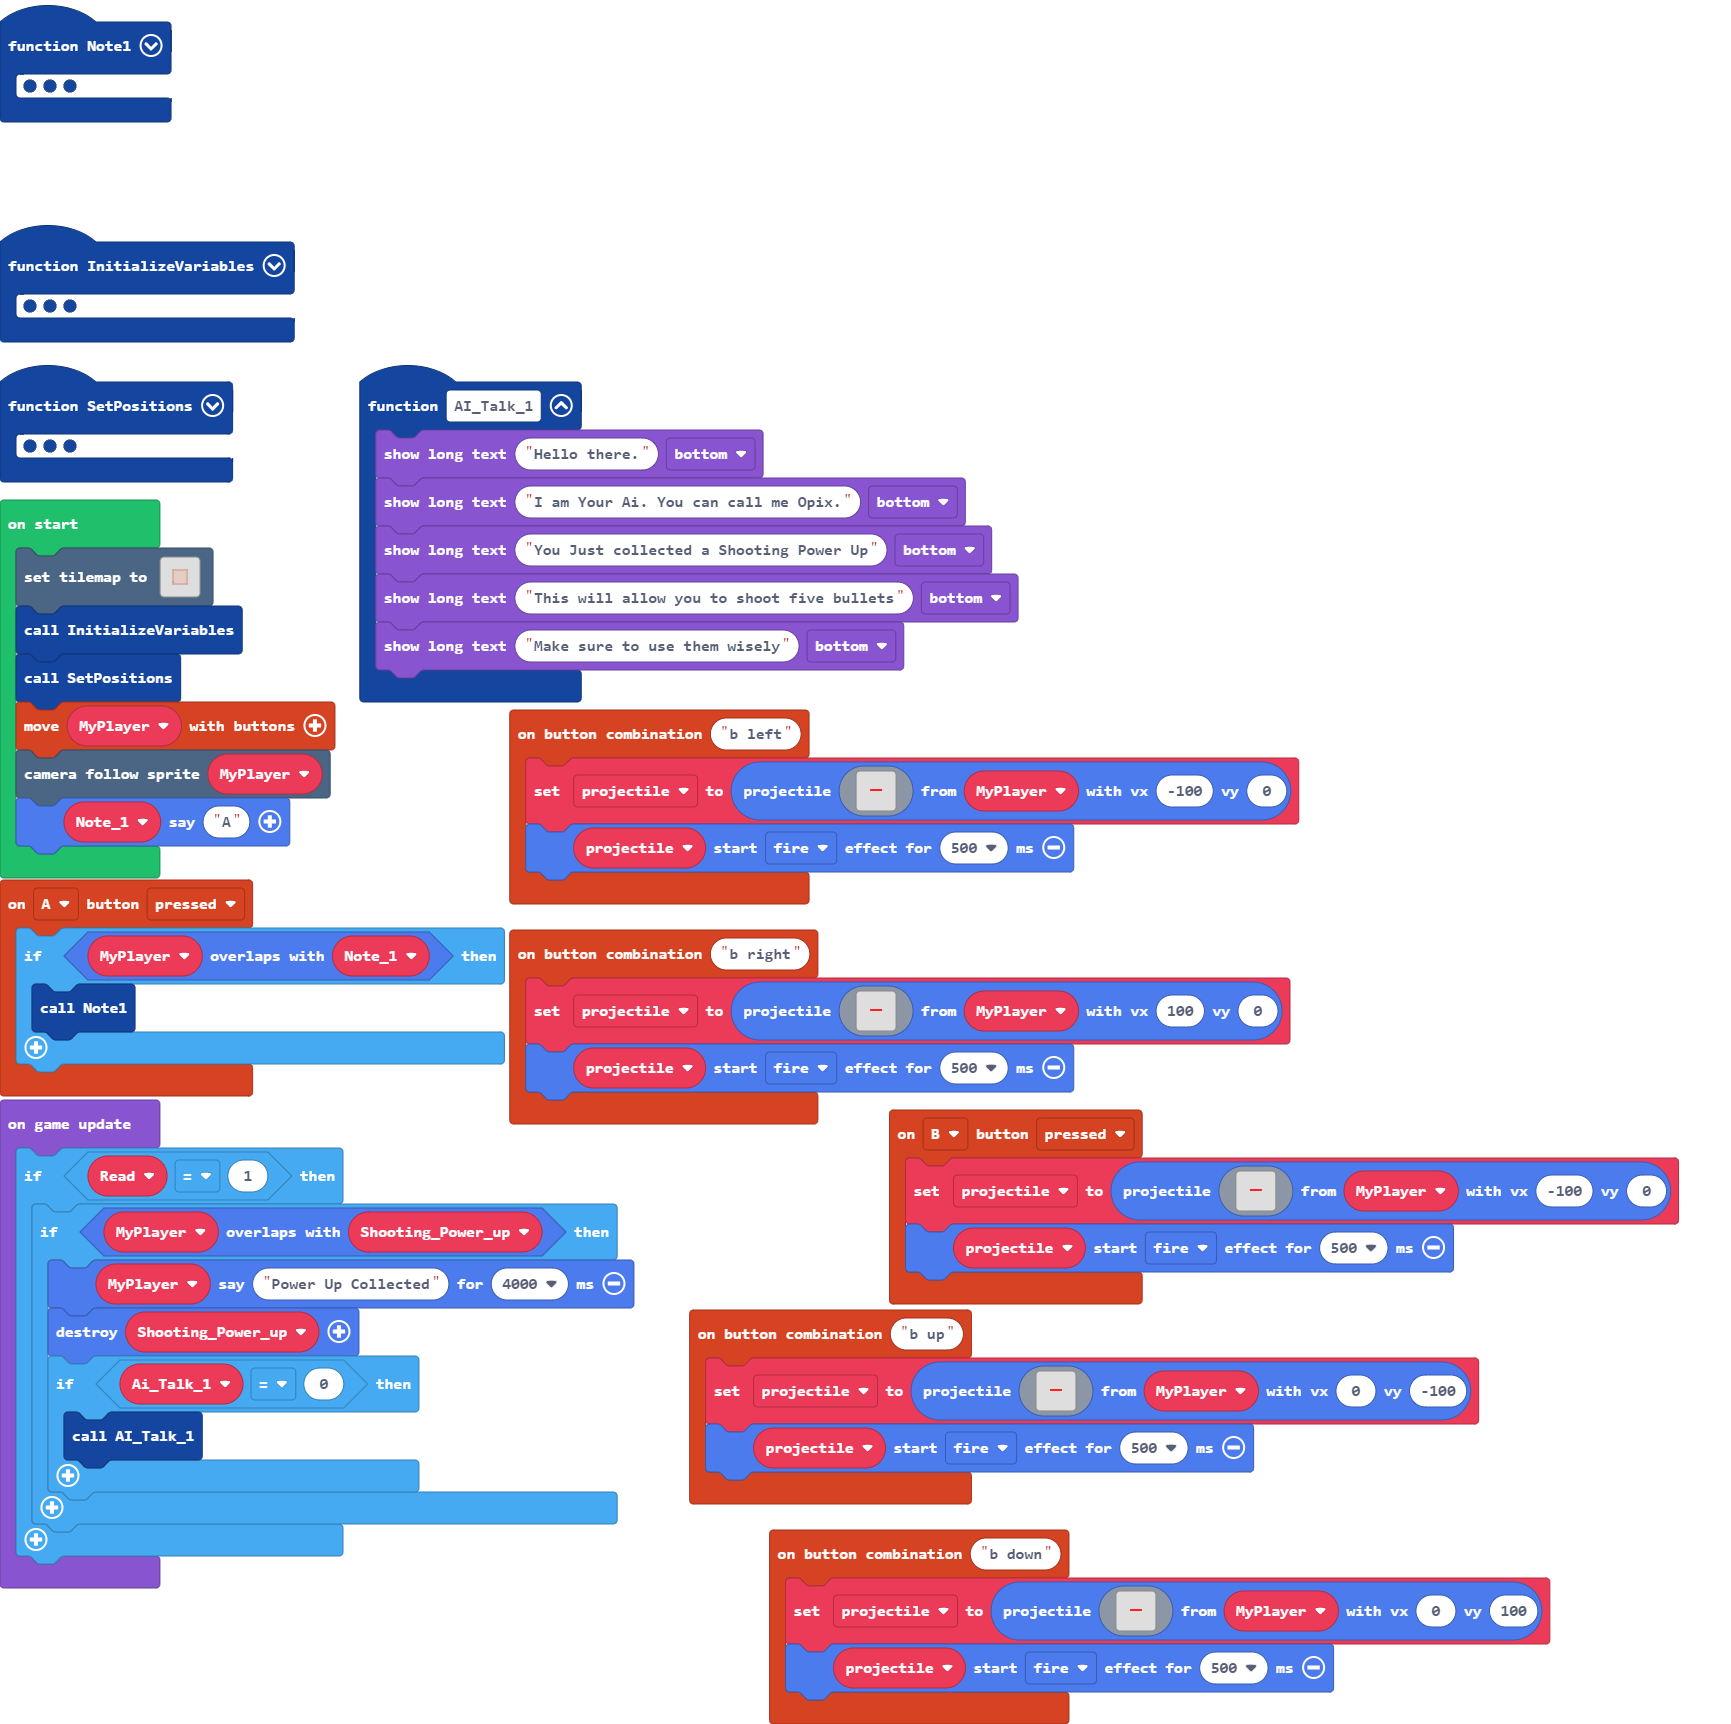
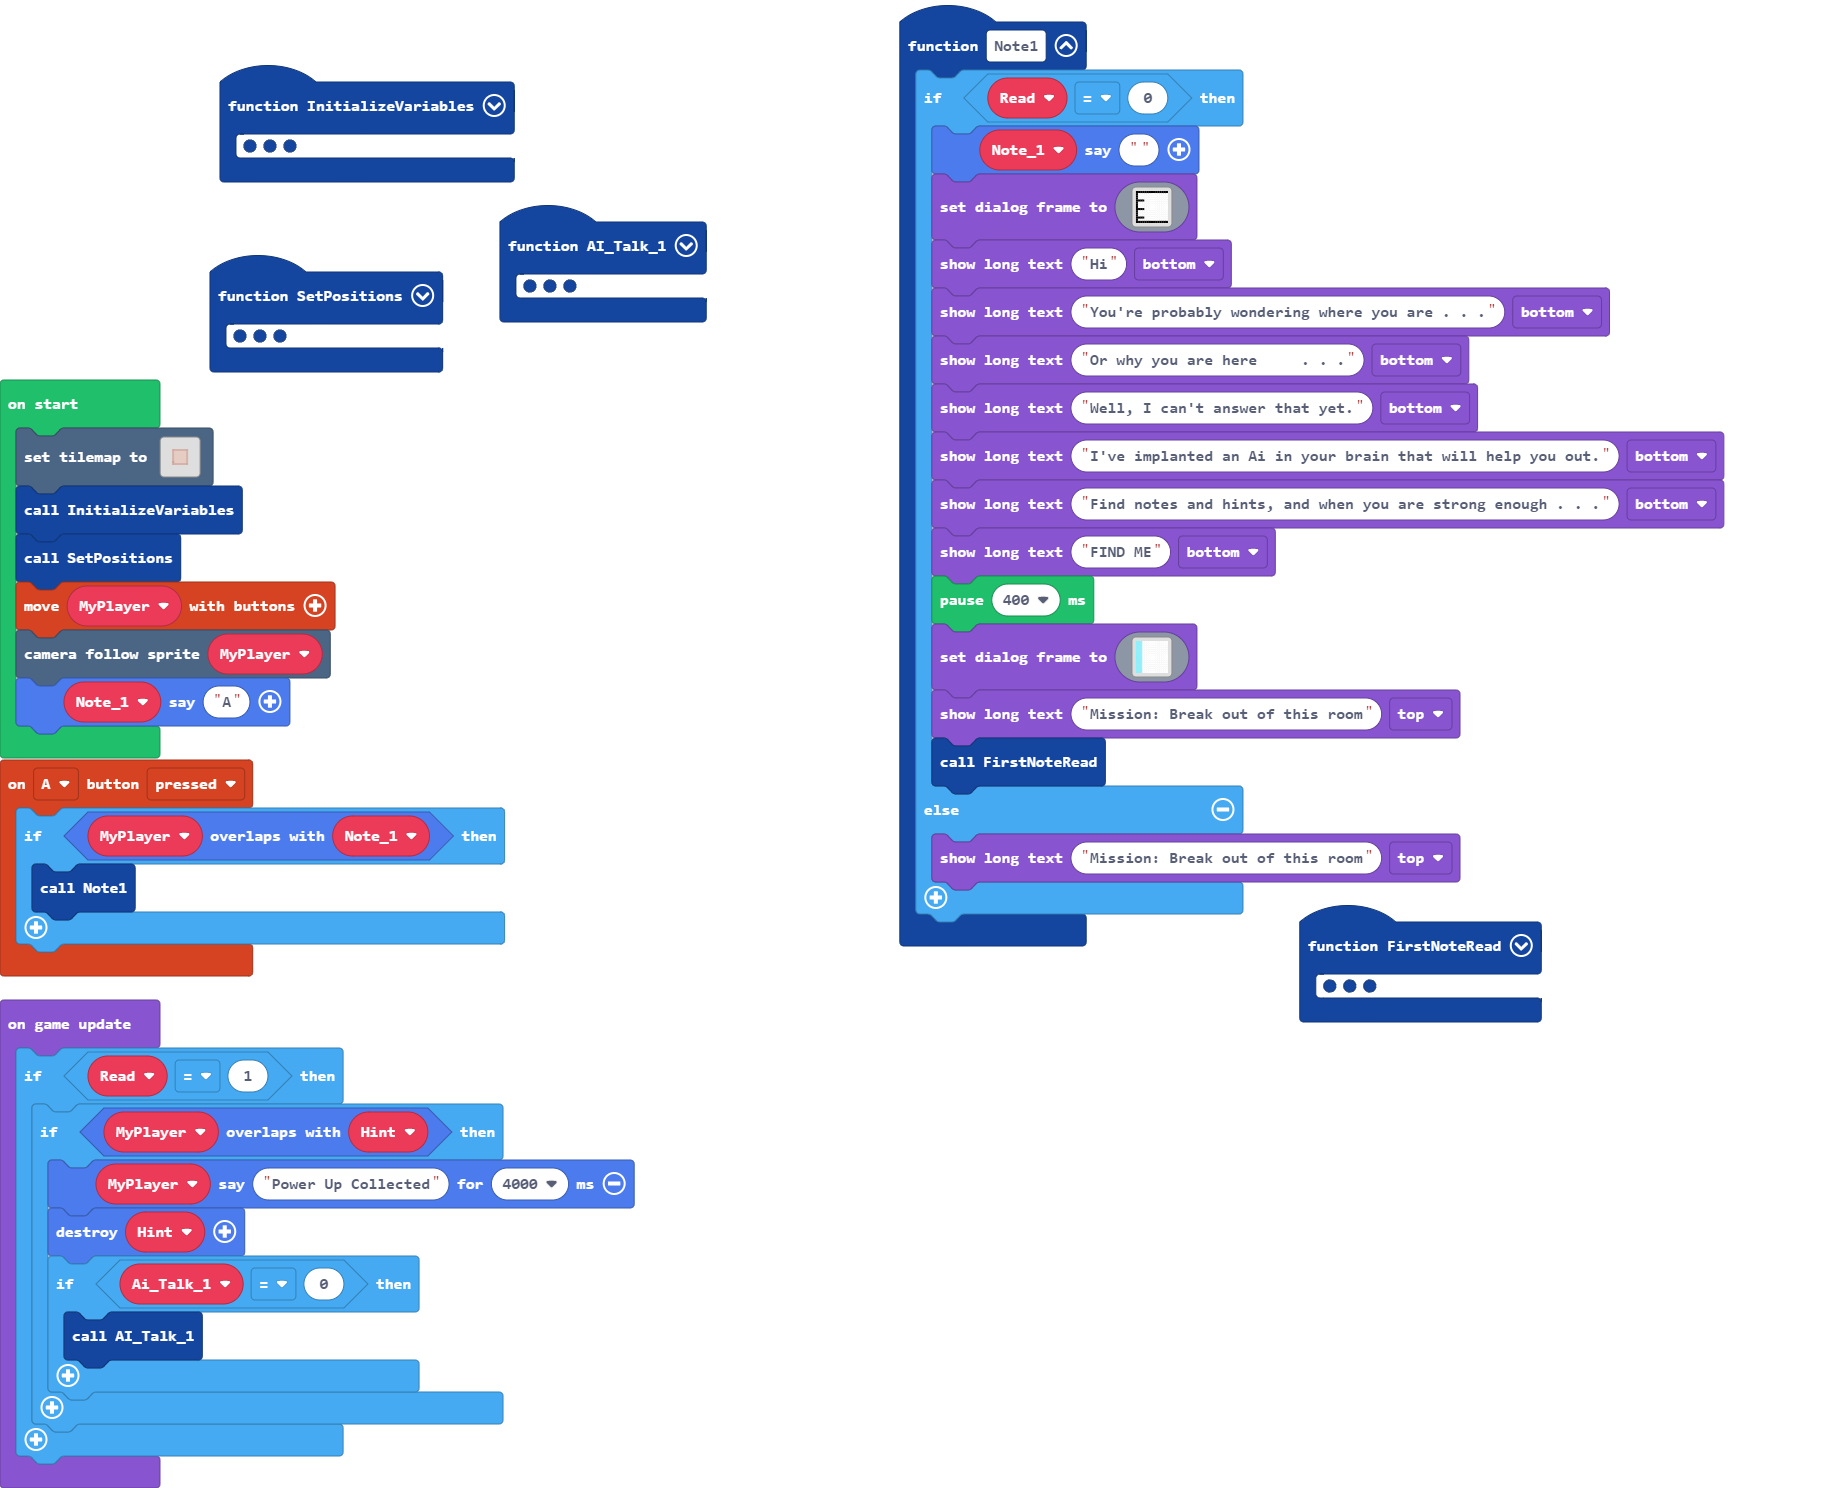
Update pxt.json, main.blocks, main.ts, images.g.jres, images.g.ts, main.py

diff --git a/main.ts b/main.ts
@@ -1,43 +1,57 @@
-controller.B.onEvent(ControllerButtonEvent.Pressed, function () {
-    projectile = sprites.createProjectileFromSprite(assets.image`Bullet`, MyPlayer, -100, 0)
-    projectile.startEffect(effects.fire, 500)
-})
+namespace SpriteKind {
+    export const Hint = SpriteKind.create()
+    export const Note = SpriteKind.create()
+}
 controller.A.onEvent(ControllerButtonEvent.Pressed, function () {
     if (MyPlayer.overlapsWith(Note_1)) {
         Note1()
     }
 })
-controller.combos.attachCombo("b left", function () {
-    projectile = sprites.createProjectileFromSprite(assets.image`Bullet`, MyPlayer, -100, 0)
-    projectile.startEffect(effects.fire, 500)
-})
 function AI_Talk_1 () {
     game.showLongText("Hello there.", DialogLayout.Bottom)
     game.showLongText("I am Your Ai. You can call me Opix.", DialogLayout.Bottom)
     game.showLongText("You Just collected a Shooting Power Up", DialogLayout.Bottom)
-    game.showLongText("This will allow you to shoot five bullets", DialogLayout.Bottom)
+    game.showLongText("This gives you five rockets", DialogLayout.Bottom)
     game.showLongText("Make sure to use them wisely", DialogLayout.Bottom)
 }
-controller.combos.attachCombo("b down", function () {
-    projectile = sprites.createProjectileFromSprite(assets.image`Bullet`, MyPlayer, 0, 100)
-    projectile.startEffect(effects.fire, 500)
-})
 function SetPositions () {
     tiles.placeOnTile(MyPlayer, tiles.getTileLocation(7, 8))
     tiles.placeOnTile(Note_1, tiles.getTileLocation(9, 6))
 }
-controller.combos.attachCombo("b right", function () {
-    projectile = sprites.createProjectileFromSprite(assets.image`Bullet`, MyPlayer, 100, 0)
-    projectile.startEffect(effects.fire, 500)
-})
-controller.combos.attachCombo("b up", function () {
-    projectile = sprites.createProjectileFromSprite(assets.image`Bullet`, MyPlayer, 0, -100)
-    projectile.startEffect(effects.fire, 500)
-})
+function FirstNoteRead () {
+    pause(10000)
+    Hint = sprites.create(img`
+        . . . . . . . f f . . . . . . . 
+        . . . . . . f f f f . . . . . . 
+        . . . . . . f f f f . . . . . . 
+        . . . . . . f f f f . . . . . . 
+        . . . . . . f f f f . . . . . . 
+        . . . . . . f f f f . . . . . . 
+        . . . . . . f f f f . . . . . . 
+        . . . . . . f f f f . . . . . . 
+        . . . . . . . f f . . . . . . . 
+        . . . . . . . f f . . . . . . . 
+        . . . . . . . f f . . . . . . . 
+        . . . . . . . f f . . . . . . . 
+        . . . . . . . . . . . . . . . . 
+        . . . . . . . f f . . . . . . . 
+        . . . . . . . f f . . . . . . . 
+        . . . . . . . . . . . . . . . . 
+        `, SpriteKind.Hint)
+    Hint.startEffect(effects.ashes, 500)
+    tiles.placeOnTile(Hint, tiles.getTileLocation(5, 5))
+    animation.runMovementAnimation(
+    Hint,
+    animation.animationPresets(animation.bobbing),
+    2000,
+    true
+    )
+    Read = 1
+}
 function InitializeVariables () {
     Read = 0
     Ai_Talk_1 = 0
-    Note_1 = sprites.create(assets.image`Note1`, SpriteKind.Player)
+    Note_1 = sprites.create(assets.image`Note1`, SpriteKind.Note)
     MyPlayer = sprites.create(assets.image`Player`, SpriteKind.Player)
 }
 function Note1 () {
@@ -54,36 +68,14 @@ function Note1 () {
         pause(400)
         game.setDialogFrame(assets.image`Mission Frame`)
         game.showLongText("Mission: Break out of this room", DialogLayout.Top)
-        pause(400)
-        Shooting_Power_up = sprites.create(img`
-            . . . . . . . . . . . . . . . . 
-            . . . . . . . . . . . . . . . . 
-            . . . . . . . . . . . . . . . . 
-            . . . . . . . . . . . . . . . . 
-            . . . . . . . . . . . . . . . . 
-            . . . . . 4 4 4 4 4 4 . . . . . 
-            . . . . . 4 2 2 2 2 4 . . . . . 
-            . . . . . 4 2 4 4 4 4 . . . . . 
-            . . . . . 4 4 4 4 2 4 . . . . . 
-            . . . . . 4 2 2 2 2 4 . . . . . 
-            . . . . . 4 4 4 4 4 4 . . . . . 
-            . . . . . . . . . . . . . . . . 
-            . . . . . . . . . . . . . . . . 
-            . . . . . . . . . . . . . . . . 
-            . . . . . . . . . . . . . . . . 
-            . . . . . . . . . . . . . . . . 
-            `, SpriteKind.Player)
-        Shooting_Power_up.startEffect(effects.fire, 500)
-        tiles.placeOnTile(Shooting_Power_up, tiles.getTileLocation(5, 5))
-        Read = 1
+        FirstNoteRead()
     } else {
         game.showLongText("Mission: Break out of this room", DialogLayout.Top)
     }
 }
-let Shooting_Power_up: Sprite = null
 let Ai_Talk_1 = 0
 let Read = 0
-let projectile: Sprite = null
+let Hint: Sprite = null
 let Note_1: Sprite = null
 let MyPlayer: Sprite = null
 tiles.setTilemap(tilemap`level1`)
@@ -94,9 +86,9 @@ scene.cameraFollowSprite(MyPlayer)
 Note_1.say("A")
 game.onUpdate(function () {
     if (Read == 1) {
-        if (MyPlayer.overlapsWith(Shooting_Power_up)) {
+        if (MyPlayer.overlapsWith(Hint)) {
             MyPlayer.say("Power Up Collected", 4000)
-            Shooting_Power_up.destroy()
+            Hint.destroy()
             if (Ai_Talk_1 == 0) {
                 AI_Talk_1()
             }

diff --git a/images.g.ts b/images.g.ts
@@ -84,11 +84,11 @@ f f f f f f f f f f f f f f f
 . . . . . . . . . . . . . . . . 
 . . . . . . . . . . . . . . . . 
 . . . . . . . . . . . . . . . . 
-. . . . . . . . . . . . . . . . 
-. . . . . . . . . . . . . . . . 
-. . . . . 2 2 2 2 2 2 . . . . . 
-. . . . . . . . . . . . . . . . 
-. . . . . . . . . . . . . . . . 
+. . . . d 2 d d d 2 d d . . . . 
+. . . d 2 d d d 2 d d d 2 . . . 
+. . 2 d 2 d d d 2 d d d 2 . . . 
+. . . d 2 d d d 2 d d d 2 . . . 
+. . . . d 2 d d d 2 d d . . . . 
 . . . . . . . . . . . . . . . . 
 . . . . . . . . . . . . . . . . 
 . . . . . . . . . . . . . . . . 

diff --git a/main.py b/main.py
@@ -1,0 +1,94 @@
+def on_a_pressed():
+    if MyPlayer.overlaps_with(Note_1):
+        Note1()
+controller.A.on_event(ControllerButtonEvent.PRESSED, on_a_pressed)
+
+def AI_Talk_1():
+    game.show_long_text("Hello there.", DialogLayout.BOTTOM)
+    game.show_long_text("I am Your Ai. You can call me Opix.", DialogLayout.BOTTOM)
+    game.show_long_text("You Just collected a Shooting Power Up",
+        DialogLayout.BOTTOM)
+    game.show_long_text("This gives you five rockets", DialogLayout.BOTTOM)
+    game.show_long_text("Make sure to use them wisely", DialogLayout.BOTTOM)
+def SetPositions():
+    tiles.place_on_tile(MyPlayer, tiles.get_tile_location(7, 8))
+    tiles.place_on_tile(Note_1, tiles.get_tile_location(9, 6))
+def InitializeVariables():
+    global Read, Ai_Talk_1, Note_1, MyPlayer
+    Read = 0
+    Ai_Talk_1 = 0
+    Note_1 = sprites.create(assets.image("""
+        Note1
+    """), SpriteKind.player)
+    MyPlayer = sprites.create(assets.image("""
+        Player
+    """), SpriteKind.player)
+def Note1():
+    global Shooting_Power_up, Read
+    if Read == 0:
+        Note_1.say("")
+        game.set_dialog_frame(assets.image("""
+            Note Frame
+        """))
+        game.show_long_text("Hi", DialogLayout.BOTTOM)
+        game.show_long_text("You're probably wondering where you are . . .",
+            DialogLayout.BOTTOM)
+        game.show_long_text("Or why you are here     . . .", DialogLayout.BOTTOM)
+        game.show_long_text("Well, I can't answer that yet.", DialogLayout.BOTTOM)
+        game.show_long_text("I've implanted an Ai in your brain that will help you out.",
+            DialogLayout.BOTTOM)
+        game.show_long_text("Find notes and hints, and when you are strong enough . . .",
+            DialogLayout.BOTTOM)
+        game.show_long_text("FIND ME", DialogLayout.BOTTOM)
+        pause(400)
+        game.set_dialog_frame(assets.image("""
+            Mission Frame
+        """))
+        game.show_long_text("Mission: Break out of this room", DialogLayout.TOP)
+        pause(400)
+        Shooting_Power_up = sprites.create(img("""
+                . . . . . . . . . . . . . . . . 
+                            . . . . . . . . . . . . . . . . 
+                            . . . . . . . . . . . . . . . . 
+                            . . . . . . . . . . . . . . . . 
+                            . . . . . . . . . . . . . . . . 
+                            . . . . . 4 4 4 4 4 4 . . . . . 
+                            . . . . . 4 2 2 2 2 4 . . . . . 
+                            . . . . . 4 2 4 4 4 4 . . . . . 
+                            . . . . . 4 4 4 4 2 4 . . . . . 
+                            . . . . . 4 2 2 2 2 4 . . . . . 
+                            . . . . . 4 4 4 4 4 4 . . . . . 
+                            . . . . . . . . . . . . . . . . 
+                            . . . . . . . . . . . . . . . . 
+                            . . . . . . . . . . . . . . . . 
+                            . . . . . . . . . . . . . . . . 
+                            . . . . . . . . . . . . . . . .
+            """),
+            SpriteKind.player)
+        Shooting_Power_up.start_effect(effects.fire, 500)
+        tiles.place_on_tile(Shooting_Power_up, tiles.get_tile_location(5, 5))
+        Read = 1
+    else:
+        game.show_long_text("Mission: Break out of this room", DialogLayout.TOP)
+Shooting_Power_up: Sprite = None
+Ai_Talk_1 = 0
+Read = 0
+Note_1: Sprite = None
+MyPlayer: Sprite = None
+tiles.set_tilemap(tilemap("""
+    level1
+"""))
+InitializeVariables()
+SetPositions()
+controller.move_sprite(MyPlayer)
+scene.camera_follow_sprite(MyPlayer)
+Note_1.say("A")
+
+def on_on_update():
+    if Read == 1:
+        if MyPlayer.overlaps_with(Shooting_Power_up):
+            MyPlayer.say("Power Up Collected", 4000)
+            Shooting_Power_up.destroy()
+            if Ai_Talk_1 == 0:
+                AI_Talk_1()
+game.on_update(on_on_update)
